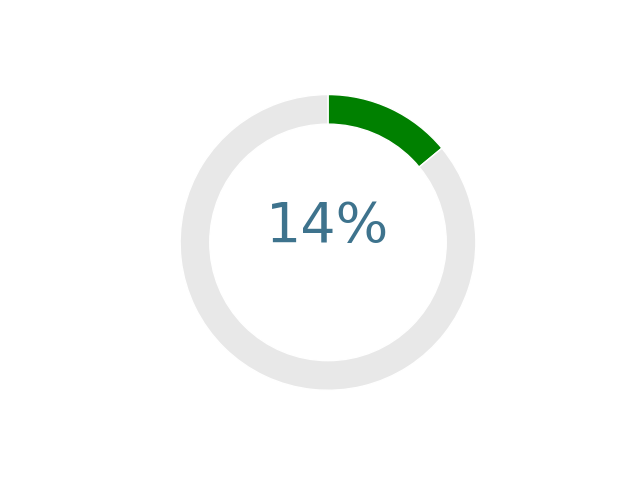
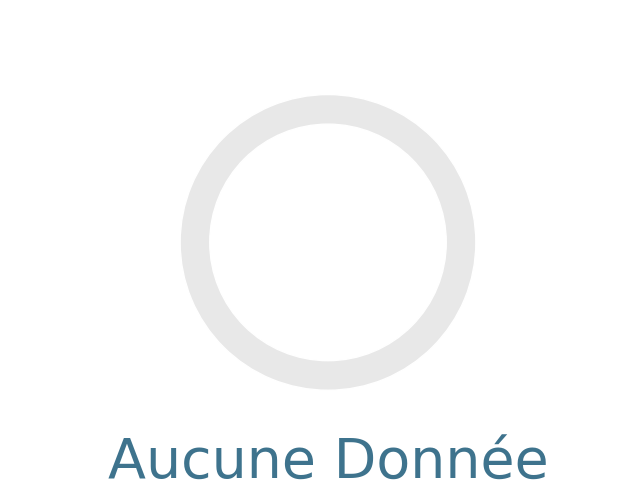
manage display when there are no data from one device

diff --git a/template/display.py b/template/display.py
@@ -485,13 +485,19 @@ def health_indicators_heart_bpm():
 def health_indicators_heart_hrv():
     """ Display hrv in health indicators section """
     st.markdown(html.health_indicators_heart_hrv_title(), unsafe_allow_html=True)
-    col1, col2 = st.columns([1,2])
-    col1.markdown(html.health_indicators_heart_hrv_results(), unsafe_allow_html=True)
-    
-    fig = chart.heart_hrv()
-    config = {'displayModeBar': True}
-    col2.plotly_chart(fig, config=config, use_container_width=True)
-    
+
+    if st.session_state.chronolife_data_available :
+
+        col1, col2 = st.columns([1,2])
+        col1.markdown(html.health_indicators_heart_hrv_results(), unsafe_allow_html=True)
+        
+        fig = chart.heart_hrv()
+        config = {'displayModeBar': True}
+        col2.plotly_chart(fig, config=config, use_container_width=True)
+    else :
+        st.warning(st.session_state.translate["no_chronolife_data"])  
+
+
 def health_indicators_heart_tachy_brady_qt():
     """ Display alerts and data for tachy/brady and QT in health indicators section """
     st.markdown(html.health_indicators_heart_tachy_brady_qt(), unsafe_allow_html=True)
@@ -509,23 +515,32 @@ def health_indicators_breath_brpm():
 def health_indicators_breath_brv():
     """ Display brv in health indicators section """
     st.markdown(html.health_indicators_breath_brv_title(), unsafe_allow_html=True)
-    col1, col2 = st.columns([1,2])
-    col1.markdown(html.health_indicators_breath_brv_results(), unsafe_allow_html=True)
-    
-    fig = chart.breath_brv()
-    config = {'displayModeBar': True}
-    col2.plotly_chart(fig, config=config, use_container_width=True)
+
+    if st.session_state.chronolife_data_available :
+
+        col1, col2 = st.columns([1,2])
+        col1.markdown(html.health_indicators_breath_brv_results(), unsafe_allow_html=True)   
+        fig = chart.breath_brv()
+        config = {'displayModeBar': True}
+        col2.plotly_chart(fig, config=config, use_container_width=True)
+    else :
+        st.warning(st.session_state.translate["no_chronolife_data"])
+
 
 def health_indicators_breath_inex():
     """ Display in/ex ratio in health indicators section """
     st.markdown(html.health_indicators_breath_inex_title(), unsafe_allow_html=True)
-    col1, col2 = st.columns([1,2])
-    col1.markdown(html.health_indicators_breath_inex_results(), unsafe_allow_html=True)
-    
-    fig = chart.breath_inex()
-    config = {'displayModeBar': True}
-    col2.plotly_chart(fig, config=config, use_container_width=True)
 
+    if st.session_state.chronolife_data_available :
+
+        col1, col2 = st.columns([1,2])
+        col1.markdown(html.health_indicators_breath_inex_results(), unsafe_allow_html=True)
+        
+        fig = chart.breath_inex()
+        config = {'displayModeBar': True}
+        col2.plotly_chart(fig, config=config, use_container_width=True)
+    else :
+        st.warning(st.session_state.translate["no_chronolife_data"])
 
 def health_indicators_breath_tachy_brady_inexratio():
     """ Display alerts and data for tachy/brady and ratio breath in/out in health indicators section """
@@ -534,52 +549,76 @@ def health_indicators_breath_tachy_brady_inexratio():
 def health_indicators_temperature():
     """ Display temperature in health indicators section """
     st.markdown(html.health_indicators_temperature_title(), unsafe_allow_html=True)
-    col1, col2 = st.columns([1,2])
-    col1.markdown(html.health_indicators_temperature_results(), unsafe_allow_html=True)
-    
-    fig = chart.temperature_mean()
-    config = {'displayModeBar': True}
-    col2.plotly_chart(fig, config=config, use_container_width=True)
-    
+    if st.session_state.chronolife_data_available :
+        
+        col1, col2 = st.columns([1,2])
+        col1.markdown(html.health_indicators_temperature_results(), unsafe_allow_html=True)
+        
+        fig = chart.temperature_mean()
+        config = {'displayModeBar': True}
+        col2.plotly_chart(fig, config=config, use_container_width=True)
+    else:
+         st.warning(st.session_state.translate["no_chronolife_data"])   
+         
 def health_indicators_stress():
     """ Display stress in health indicators section """
     st.markdown(html.health_indicators_stress_title(), unsafe_allow_html=True)
-    col1, col2 = st.columns(2)
-    col1.markdown(html.health_indicators_stress_results(), unsafe_allow_html=True)
+
+    if st.session_state.garmin_data_available :    
+        col1, col2 = st.columns(2)
+        col1.markdown(html.health_indicators_stress_results(), unsafe_allow_html=True)
     
-    fig = chart.stress()
-    config = {'displayModeBar': True}
-    col2.plotly_chart(fig, config=config, use_container_width=True)
+        fig = chart.stress()
+        config = {'displayModeBar': True}
+        col2.plotly_chart(fig, config=config, use_container_width=True)
+    else :
+        st.warning(st.session_state.translate["no_garmin_data"])
     
 def health_indicators_pulseox():
     """ Display pulseox in health indicators section """
     st.markdown(html.health_indicators_pulseox_title(), unsafe_allow_html=True)
-    col1, col2 = st.columns(2)
-    col1.markdown(html.health_indicators_pulseox_results(), unsafe_allow_html=True)
-    
-    fig = chart.pulseox()
-    config = {'displayModeBar': True}
-    col2.plotly_chart(fig, config=config, use_container_width=True)
+
+    if st.session_state.garmin_data_available :
+        col1, col2 = st.columns(2)
+        col1.markdown(html.health_indicators_pulseox_results(), unsafe_allow_html=True)
+        
+        fig = chart.pulseox()
+        config = {'displayModeBar': True}
+        col2.plotly_chart(fig, config=config, use_container_width=True)
+
+    else :
+        st.warning(st.session_state.translate["no_garmin_data"])
+
 
 def health_indicators_bodybattery():
     """ Display body battery in health indicators section """
     st.markdown(html.health_indicators_bodybattery_title(), unsafe_allow_html=True)
-    col1, col2 = st.columns([1,2])
-    col1.markdown(html.health_indicators_bodybattery_results(), unsafe_allow_html=True)
-    
-    fig = chart.bodybattery()
-    config = {'displayModeBar': True}
-    col2.plotly_chart(fig, config=config, use_container_width=True)
-    
+
+    if st.session_state.garmin_data_available :
+        col1, col2 = st.columns([1,2])
+        col1.markdown(html.health_indicators_bodybattery_results(), unsafe_allow_html=True)
+        
+        fig = chart.bodybattery()
+        config = {'displayModeBar': True}
+        col2.plotly_chart(fig, config=config, use_container_width=True)
+    else :
+        st.warning(st.session_state.translate["no_garmin_data"])
+
+
 def health_indicators_sleep():
     """ Display sleep in health indicators section """
     st.markdown(html.health_indicators_sleep_title(), unsafe_allow_html=True)
-    col1, col2 = st.columns(2)
-    col1.markdown(html.health_indicators_sleep_results(), unsafe_allow_html=True)
-    
-    fig = chart.sleep()
-    config = {'displayModeBar': True}
-    col2.plotly_chart(fig, config=config, use_container_width=True)
+
+    if st.session_state.garmin_data_available :
+        col1, col2 = st.columns(2)
+        col1.markdown(html.health_indicators_sleep_results(), unsafe_allow_html=True)
+        
+        fig = chart.sleep()
+        config = {'displayModeBar': True}
+        col2.plotly_chart(fig, config=config, use_container_width=True)
+    else :
+        st.warning(st.session_state.translate["no_garmin_data"])
+
 
 def data_report():
     """ Display data report section """

diff --git a/automatic_reports/api2_get_cst_data.py b/automatic_reports/api2_get_cst_data.py
@@ -9,6 +9,8 @@ import numpy as np
 import statistics
 from datetime import datetime, timedelta
 
+import streamlit as st
+
 from automatic_reports.useful_functions import find_time_intervals, sum_time_intervals, timedelta_formatter, unwrap, unwrap_ratio_inspi_expi
 from automatic_reports.config import CST_SIGNAL_TYPES
 from automatic_reports.config import RED_ALERT, GREEN_ALERT, ALERT_SIZE, ACTIVITY_THREASHOLD, TEMPERATURE_THREASHOLD
@@ -32,6 +34,12 @@ def get_cst_data(user_id, date, api, url):
     datas_after = get_datas(user_id, date_after, CST_SIGNAL_TYPES, api, url)
     
     datas_3_days = datas + datas_before + datas_after
+   
+   #  Manage display of chronolife indicators when the user use the t-shirt 
+    if len(datas)==0:
+        st.session_state.chronolife_data_available = False
+    else :
+        st.session_state.chronolife_data_available = True
 
     # Get offset zone value 
     offset = get_cst_offset(datas_3_days) 
@@ -85,6 +93,7 @@ def request_data_from_servers(params, api_key, url):
 
 def error_management(date, reply) :
     datas = []
+    
     # Error management 
     if reply.status_code == 200:
       # Convert the reply content into a json object.
@@ -104,7 +113,7 @@ def error_management(date, reply) :
     
     if len(datas) == 0:
         print('No Chronolife data found for , day:', date)
-    
+
     return datas
 
 def initialize_dictionary_with_template() -> dict :  

diff --git a/automatic_reports/api2_get_garmin_data.py b/automatic_reports/api2_get_garmin_data.py
@@ -8,6 +8,7 @@ from datetime import datetime, timedelta
 from automatic_reports.useful_functions import find_time_intervals, sum_time_intervals, timedelta_formatter
 from automatic_reports.config import GARMIN_SIGNAL_TYPES
 
+import streamlit as st 
 # ------------------------ The main function ---------------------------------
 # ----------------------------------------------------------------------------
 # Request user's data from servers
@@ -25,6 +26,16 @@ def get_garmin_data(user_id, date, api, url):
     reply = request_data_from_servers(params, api, url)
     # Convert the reply content into a json object
     datas = error_management(date, reply)
+
+    #  Manage display of Garmin indicators when the user use the t-shirt 
+
+    if len(datas)==0:
+        st.session_state.garmin_data_available = False
+    else :
+        st.session_state.garmin_data_available = True
+   
+
+
     # Organize the data in a dictionary 
     result_dict = save_datas_in_dict(date, user_id, datas, api, url)
 

diff --git a/template/session.py b/template/session.py
@@ -4,6 +4,10 @@ import template.language.fr as fr
 from template.util import img_to_bytes
 
 def init():
+
+    st.session_state.chronolife_data_available = False
+    st.session_state.garmin_data_available = False
+
     
     if 'prod' not in st.session_state:
         st.session_state.prod = True
@@ -251,6 +255,7 @@ def init_simul():
     st.session_state.qt_alert_icon = st.session_state.alert_no
     st.session_state.tachypnea_alert_icon = st.session_state.alert
     st.session_state.bradypnea_alert_icon = st.session_state.alert_no
+    
         
 def restart():
     for key in st.session_state.keys():

diff --git a/template/language/fr.py b/template/language/fr.py
@@ -183,5 +183,7 @@ def translate():
     
     translate["no_data"]                        = "Aucune Donnée"
     translate["no_enduser"]                     = "Aucun utilisateur"
+    translate["no_chronolife_data"]             = "Pas de T-shirt data"
+    translate["no_garmin_data"]                 = "Pas de Garmin data"
     
     return translate

diff --git a/template/language/en.py b/template/language/en.py
@@ -183,5 +183,7 @@ def translate():
     
     translate["no_data"]                        = "No data"
     translate["no_enduser"]                     = "No end user"
+    translate["no_chronolife_data"]             = "No T-shirt data"
+    translate["no_garmin_data"]                 = "No Garmin data"
     
     return translate
